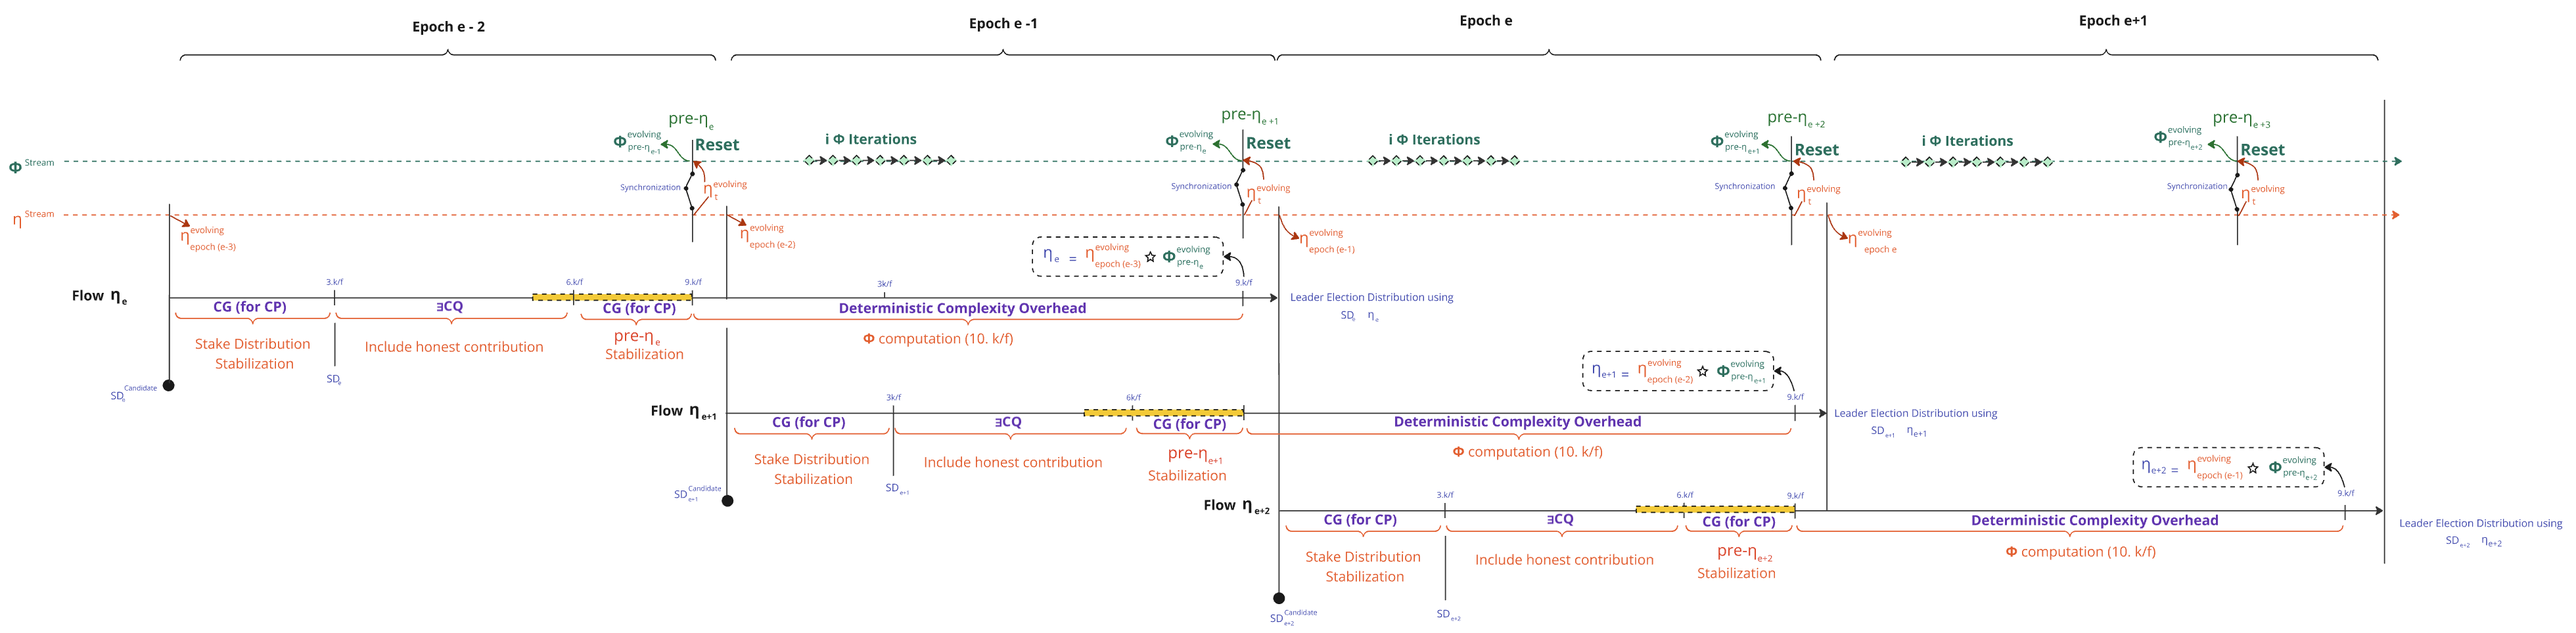
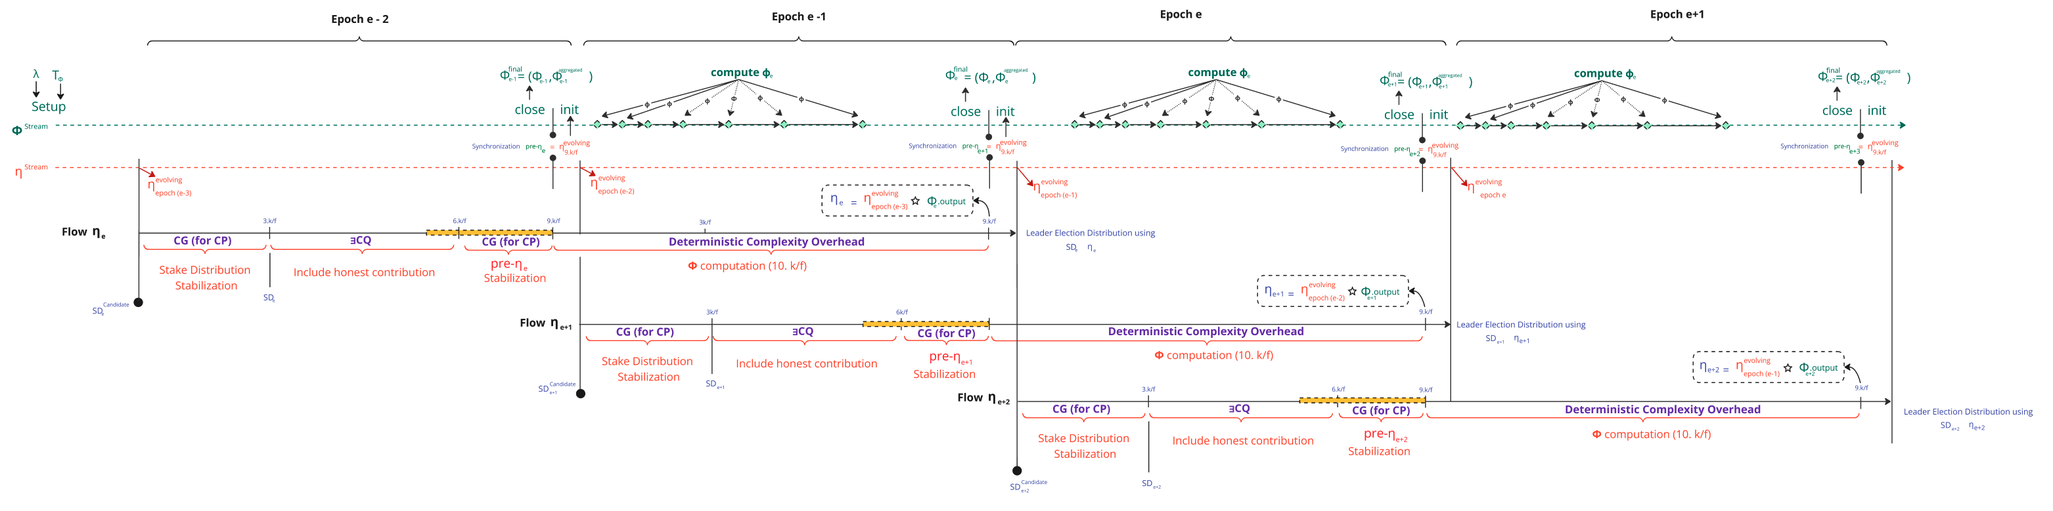
Fixed math notation

diff --git a/CIP/Readme.md b/CIP/Readme.md
@@ -133,7 +133,7 @@ In **Φalanx** , the randomness generation and leader election flows are modifie
 
 #### 1.2 Inputs & Outputs 
 
-The Randomness Generation sub-protocol operates with two parallel streams: $`\eta^\text{stream}`$ and $`\phi^\text{stream}`$, which synchronize at $`9.\frac{k}{f}`$ at each epoch :  
+The Randomness Generation sub-protocol operates with two parallel streams $`\eta^\text{stream}`$ and $`\phi^\text{stream}`$, which synchronize at $`9.\frac{k}{f}`$ at each epoch :  
 
 ![alt text](./image/Phalanx-Streams.png)
 
@@ -168,68 +168,72 @@ false & \text{otherwise.}
 
 ##### 1.2.2 The $`\text{pre-}\eta`$ Synchronizations  
 
-- To generate $`\eta_\text{e}`$ for epoch $`e`$, the stream $`\phi^\text{stream}`$ is reset with the value of $`\eta^\text{stream}`$ at $`t=9.\frac{k}{f}`$. 
-- This specific value of $`\eta^\text{stream}`$ is referred to as **$`\text{pre-}\eta_e`$**.
-
+- To generate $`\eta_\text{e}`$ for epoch $`e`$, the stream $`\phi^\text{stream}`$ is reset with the value of $`\eta^\text{stream}`$ at $`t=9.\frac{k}{f}`$ at $epoch_{e-2}$
+- This specific value of $`\eta^\text{stream}`$ is referred to as **$`\text{pre-}\eta_e`$** and defined as :
+```math
+\text{pre-}\eta_e= \eta^{evolving}_{9.\frac{k}{f}(epoch_{e-2})}
+```
 
 ##### 1.2.3 The $`\phi^\text{stream}`$
 
-- The stream is bootstrapped with two parameters:
+###### 1.2.3.1 The Setup
 
-  - A security parameter $`\lambda`$ for the cryptographic primitive $`\Phi`$.
-  - $`T_\Phi`$, a time-bound representing the required computation  $`\Phi`$ duration, independent of available computing power.
+The stream is bootstrapped by calling the setup function of the cryptographic primitive $`\Phi`$ with:
+```math
+Φ.\text{Configuration} \leftarrow \Phi.\text{setup}(\lambda, T_\Phi)
+```
+where : 
+  -  $`\lambda`$ is a security parameter for the cryptographic primitive $`\Phi`$.
+  - $`T_\Phi`$, a time-bound parameter representing the required computation  $`\Phi`$ duration, independent of available computing power.
   - Any change to these 2 parameters would require a decision through Cardano governance.
-  - The stream is configured by calling the setup function of the cryptographic primitive $`\Phi`$ with:
-    ```math
-    Φ.\text{Configuration} \leftarrow \Phi.\text{setup}(\lambda, T_\Phi)
-    ```
-  - `Φ.Configuration` will contain derived configuration specific to the algorithm and the cryptographic primitive used.
+  - $\Phi.\text{Configuration}$ will contain derived configuration specific to the algorithm and the cryptographic primitive used.
 
-- The stream is modeled as following :
+###### 1.2.3.2 The Lifecycle
 
-  - It is reset at every $`\text{pre-}\eta`$ synchronization point every $`10.\frac{k}{f}`$ slots.
-    ```math
-    Φ.\text{Stream.State} \leftarrow \Phi.\text{init}(Φ.\text{Configuration}, \text{pre-}\eta)
-    ```
-  - At each slot $t$, update the stream state by :   
-    ```math
-    Φ.\text{Stream.State} \leftarrow \Phi.\text{tick}(Φ.\text{Stream.State, t})
-    ```
-  - A node must be able to determine, based on the current state, whether it should begin computing $\Phi$ iterations in order to provide a proof at its next scheduled leader slot:
-    ```math
-    \{0,1\} \leftarrow \Phi.\text{shouldCompute}(Φ.\text{Stream.State, \text{nextSlotLeader}})
-    ```
-  
-  - A node must be able to compute a specific chunk of the $`\Phi`$ iteration independently of any global state. The result is an *attested output*—a pair $`\phi_x =(\pi_x,\ o_x)`$, where $`o_x`$ is the computed output for iteration $`x`$, and $`\pi_x`$ is a cryptographic proof attesting that $`o_x`$ was correctly derived from the input according to the rules of $`\Phi`$. Since this operation may be long-lived, intermediate attested outputs should be persistable to disk, allowing the node to stop, resume, or cancel computation from the latest completed sub-computation.
+It is reset at every $`\text{pre-}\eta`$ synchronization point every $`10.\frac{k}{f}`$ slots :
+```math
+Φ.\text{Stream.State} \leftarrow \Phi.\text{init}(Φ.\text{Configuration}, \text{pre-}\eta)
+```
+At each slot $t$, update the stream state by :   
+```math
+Φ.\text{Stream.State} \leftarrow \Phi.\text{tick}(Φ.\text{Stream.State, t})
+```
+A node must be able to determine, based on the current state, whether it should begin computing $\Phi$ iterations in order to provide a proof at its next scheduled leader slot:
+```math
+\{0,1\} \leftarrow \Phi.\text{shouldCompute}(Φ.\text{Stream.State,nextSlotLeader})
+```
+A node must be able to compute a specific chunk of the $`\Phi`$ iteration independently of any global state. 
+The result is an *attested output*—a pair $`\phi_x =(\pi_x,\ o_x)`$ where : 
 
+ - $`o_x`$ is the computed output for iteration $`x`$, 
+ - $`\pi_x`$ is a cryptographic proof attesting that $`o_x`$ was correctly derived from the input according to the rules of $`\Phi`$. 
+ - Since this operation may be long-lived, intermediate attested outputs should be persistable to disk, allowing the node to stop, resume, or cancel computation from the latest completed sub-computation.
 
-  - A subset of block-producing slots must include in their block headers a unique attested output $`\phi_x`$ whith $`x \in \{1, \dotsc, e \}`$ denoting the iteration index within the $`\Phi`$ computation.
-
-    - Each attested output updates the stream state as follows:
-
-      $$
-      \Phi.\text{StreamState} \leftarrow \Phi.\text{addAttestedOutput}(\Phi.\text{StreamState},\ t,\ \phi_x)
-      $$
-    - Each attested output must be verifiable both:
-
+A subset of block-producing slots must include in their block headers a unique attested output $`\phi_x`$ whith $`x \in \{1, \dotsc, e \}`$ denoting the iteration index within the $`\Phi`$ computation :
+  - Each attested output updates the stream state as follows:
+```math
+ \Phi.\text{StreamState} \leftarrow \Phi.\text{addAttestedOutput}(\Phi.\text{StreamState},\ t,\ \phi_x)
+```
+  - Each attested output must be verifiable both:
       - **logically**, to ensure it corresponds to the correct slot and index, and
       - **cryptographically**, to confirm that the computation was effectively executed
 
-      $$
-      \{0,1\} \leftarrow \Phi.\text{verify}(\Phi.\text{StreamState},\ t,\ \phi_x)
-      $$
+```math
+\{0,1\} \leftarrow \Phi.\text{verify}(\Phi.\text{StreamState},\ t,\ \phi_x)
+```
 
-  - At the synchronization point $`\text{pre-}\eta_{e+1}`$, the stream is closed providing $`\phi^{final}_e = (\phi_e,\phi^{aggregated}_e)`$ with the last attested output $`\phi_e`$, along with an **aggregated proof** $`\phi^{final}_e`$. This aggregated proof allows nodes to efficiently verify the final result without checking each individual $`\phi_x`$ produced during the computation phase :
-      $$
-      \phi^{final}_e \leftarrow \Phi.\text{close}( \Phi.\text{StreamState})
-      $$
+At the synchronization point $`\text{pre-}\eta_{e+1}`$, the stream is closed providing $`\phi^{final}_e = (\phi_e,\phi^{aggregated}_e)`$ with the last attested output $`\phi_e`$, along with an **aggregated proof** $`\phi^{final}_e`$. This aggregated proof allows nodes to efficiently verify the final result without checking each individual $`\phi_x`$ produced during the computation phase :
+
+```math
+\phi^{final}_e \leftarrow \Phi.\text{close}( \Phi.\text{StreamState})
+```
 
 ##### 1.2.4 The $`\eta`$ Generations
    - This is the final nonce $`\eta_\text{e}`$ used to determine participant eligibility during epoch $`e`$.  
    - It originates from the operation ⭒ with  $`\phi^{\text{stream}}_{t}`$ at $`\text{pre-}\eta_\text{e+1}`$ Synchronization and $`\eta^\text{stream}_t`$ $`\text{when } t = \text{end of epoch}_\text{e-3}`$   
 
 ```math
-\eta_\text{e} = \eta^\text{stream}_{epoch_\text{e-3}} ⭒ \phi^{final}_e , \quad \text{when } t = \text{pre-}\eta_\text{e+1}\text{ synchronization } 
+\eta_\text{e} = \eta^\text{evolving}_{epoch_\text{e-3}} ⭒ {o_e} , \quad \text{when } t = \text{pre-}\eta_\text{e+1}\text{ synchronization } 
 ```
 
 
@@ -270,10 +274,42 @@ In Pietrzak’s paper, the proof is a tuple of group elements $\pi = \{x^{2^{T /
 
 We will choose Wesolowski design over Pietrzark because of its space efficiency and possibility to aggregate proofs.
 
+### 3. $`\Phi^{\text{stream}}`$ Specification
+
+We previously outlined the purpose of the Phalanx sub-protocol and introduced the cryptographic primitive underpinning its security guarantees. In this section, we provide a precise technical specification of the protocol, focusing on how the $`\Phi`$ iterations are distributed and how Wesolowski’s Verifiable Delay Function (VDF) is integrated into the process.
+
+#### 3. Distribution of $\Phi$ Iterations
+
+As previously mentioned, $`\phi^{\text{stream}}`$ is divided into a single epoch-sized *lifecycle segment*. It begins with an **init** function, ends with a **close** function, and then a new segment begins.
+
+We further partition this segment into **intervals**, each large enough to guarantee (with 128-bit confidence) that at least one block will be produced within it. This corresponds to **3434 slots** per interval. For simplicity, we round this to **3600 slots** (~1 hour), resulting in exactly 120 intervals per segment, which conveniently aligns with the 120 hours in five days.
+
+<details>
+<summary>🔍 How 128-bit Confidence gives 3434 Slots ?</summary>
+<p> 
+
+TODO
+
+</p> 
+</details>
+<br>
+
+This structure can be illustrated as follows:
+
+![alt text](./image/intervals.png)
 
 
-### 3. Distribution of $\Phi$ Iterations
+As previously described, we configure the stream using two key parameters, most notably the total computational budget $`T_\Phi`$. This value defines the total amount of work we require SPOs to collectively perform.
 
+We split $`T_\Phi`$ into discrete **iterations**, each of which can be computed independently. Slot leaders are responsible for producing a proof of computation for the specific iteration they are assigned. 
+These iterations are fully decoupled: they can be computed ahead of time, without waiting for previous or subsequent iterations to be produced. However, all iterations must eventually be completed and aggreagted in order to derive the final output $`o_e`$, which is then used to compute the epoch randomness $`\eta_e`$. 
+
+
+In this simple configuration, each iteration is associated with a specific interval. At first glance, we could divide $`T_\Phi`$ evenly across the 120 intervals. However, to ensure resilience, the protocol must remain robust even in extreme scenarios—such as a global outage resulting in **36 hours** of consecutive downtime (**30% of an epoch**). This scenario is described in the [Cardano Disaster Recovery Plan](https://iohk.io/en/research/library/papers/cardano-disaster-recovery-plan). A global outage means blockless intervas, and so we want to be able to handle 36 consecutive blockless intervals in our protocol. Pour ca, we will introduce a catch-up mechanism where if a block has not been produced in an interval then the 
+
+-------
+Below is under progress 
+-------
 #### 3.1 Challenge to solve 
 
 **How can we ensure that, for a given epoch $e$, Stake Pool Operators (SPOs) can efficiently perform the $i$ iterations of $`\Phi`$ required to deterministically produce $`\phi^\text{evolving}_e`$, thereby enabling a more secure computation of $`\eta_e`$ than in the current Praos protocol?**
